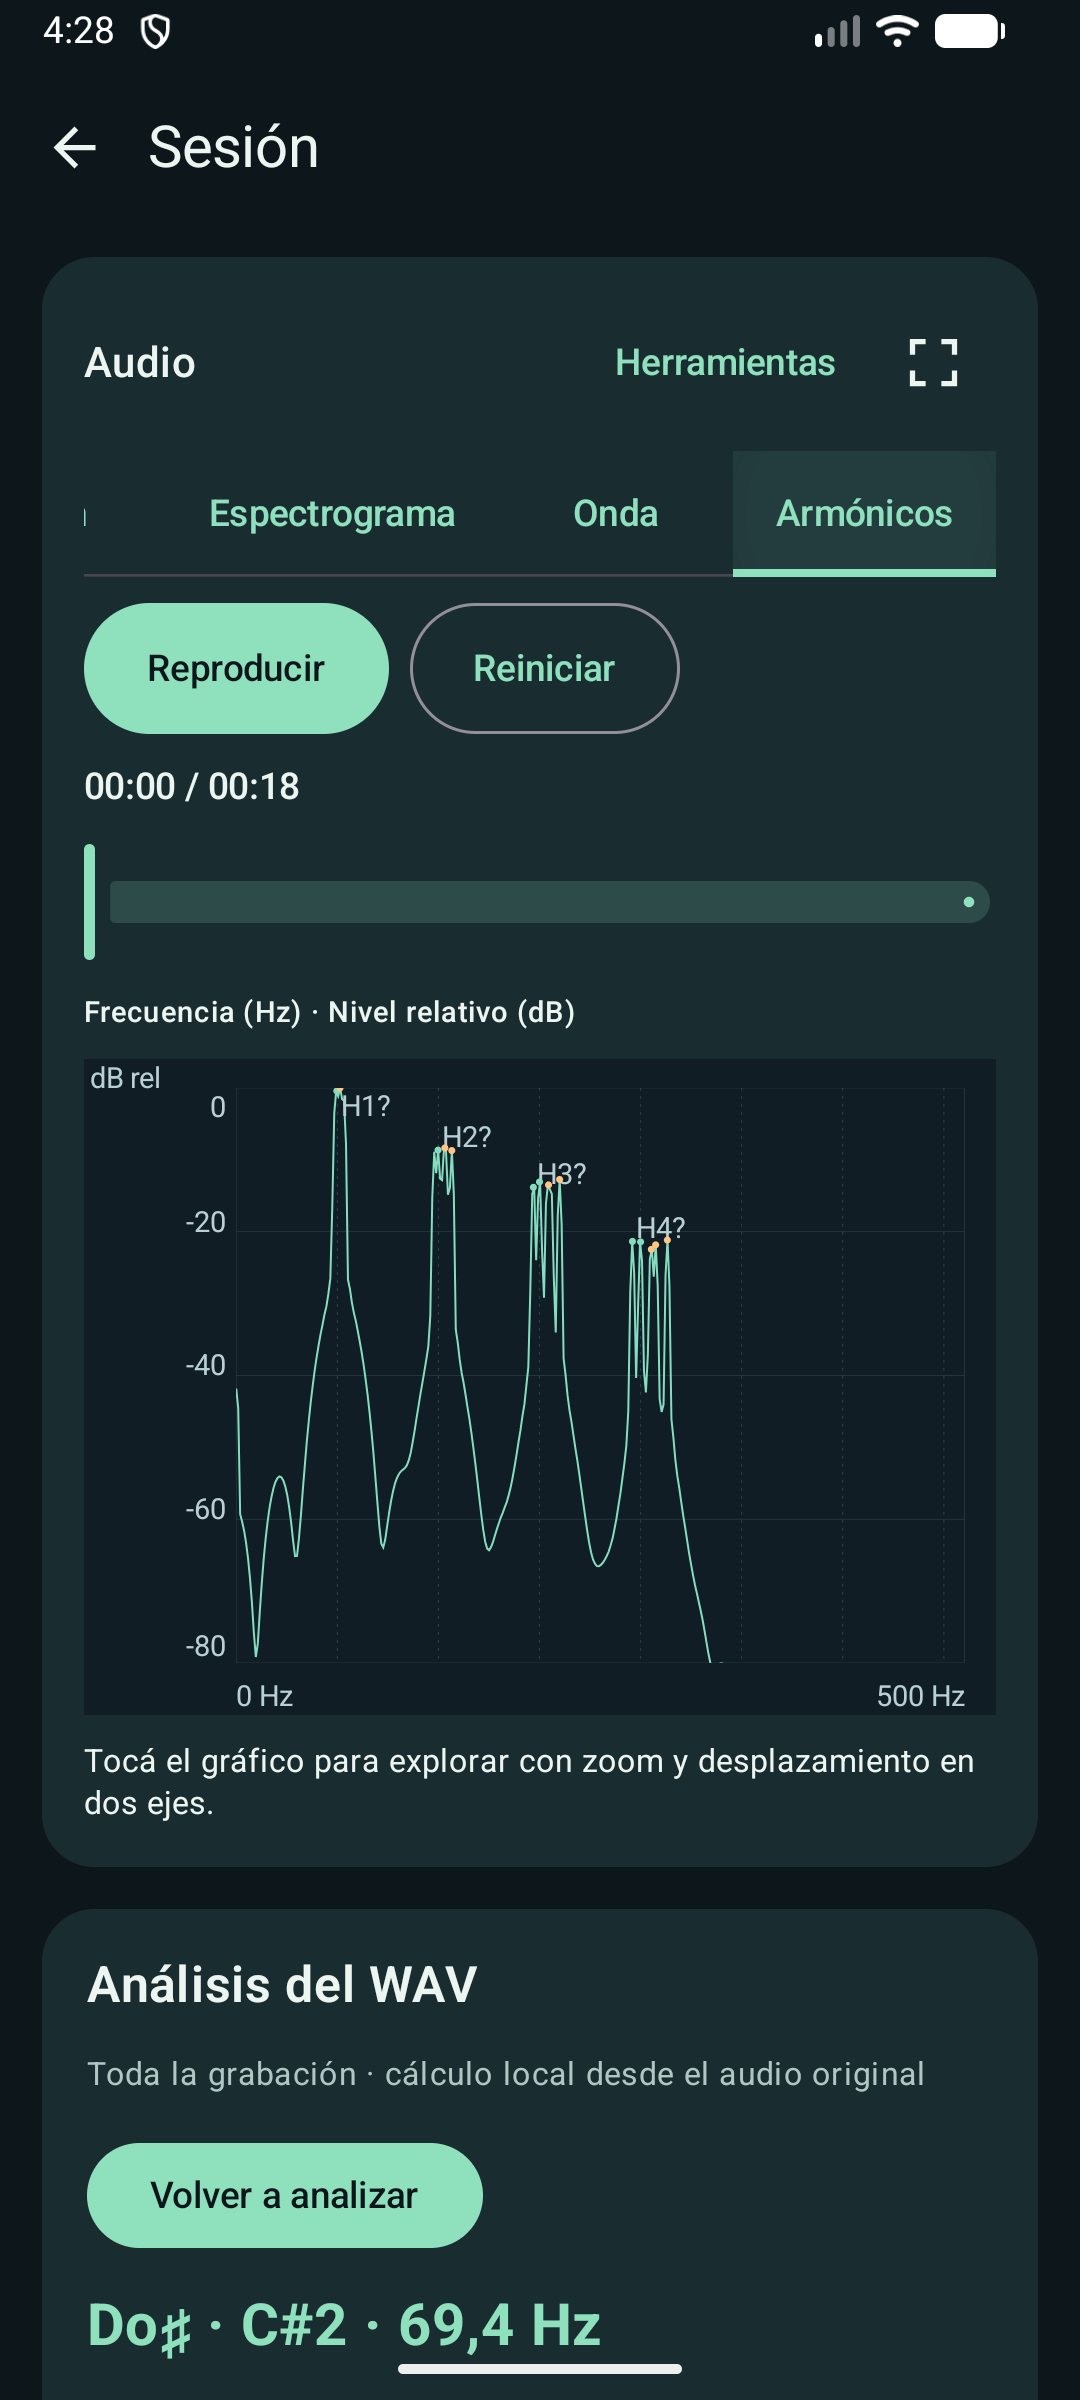
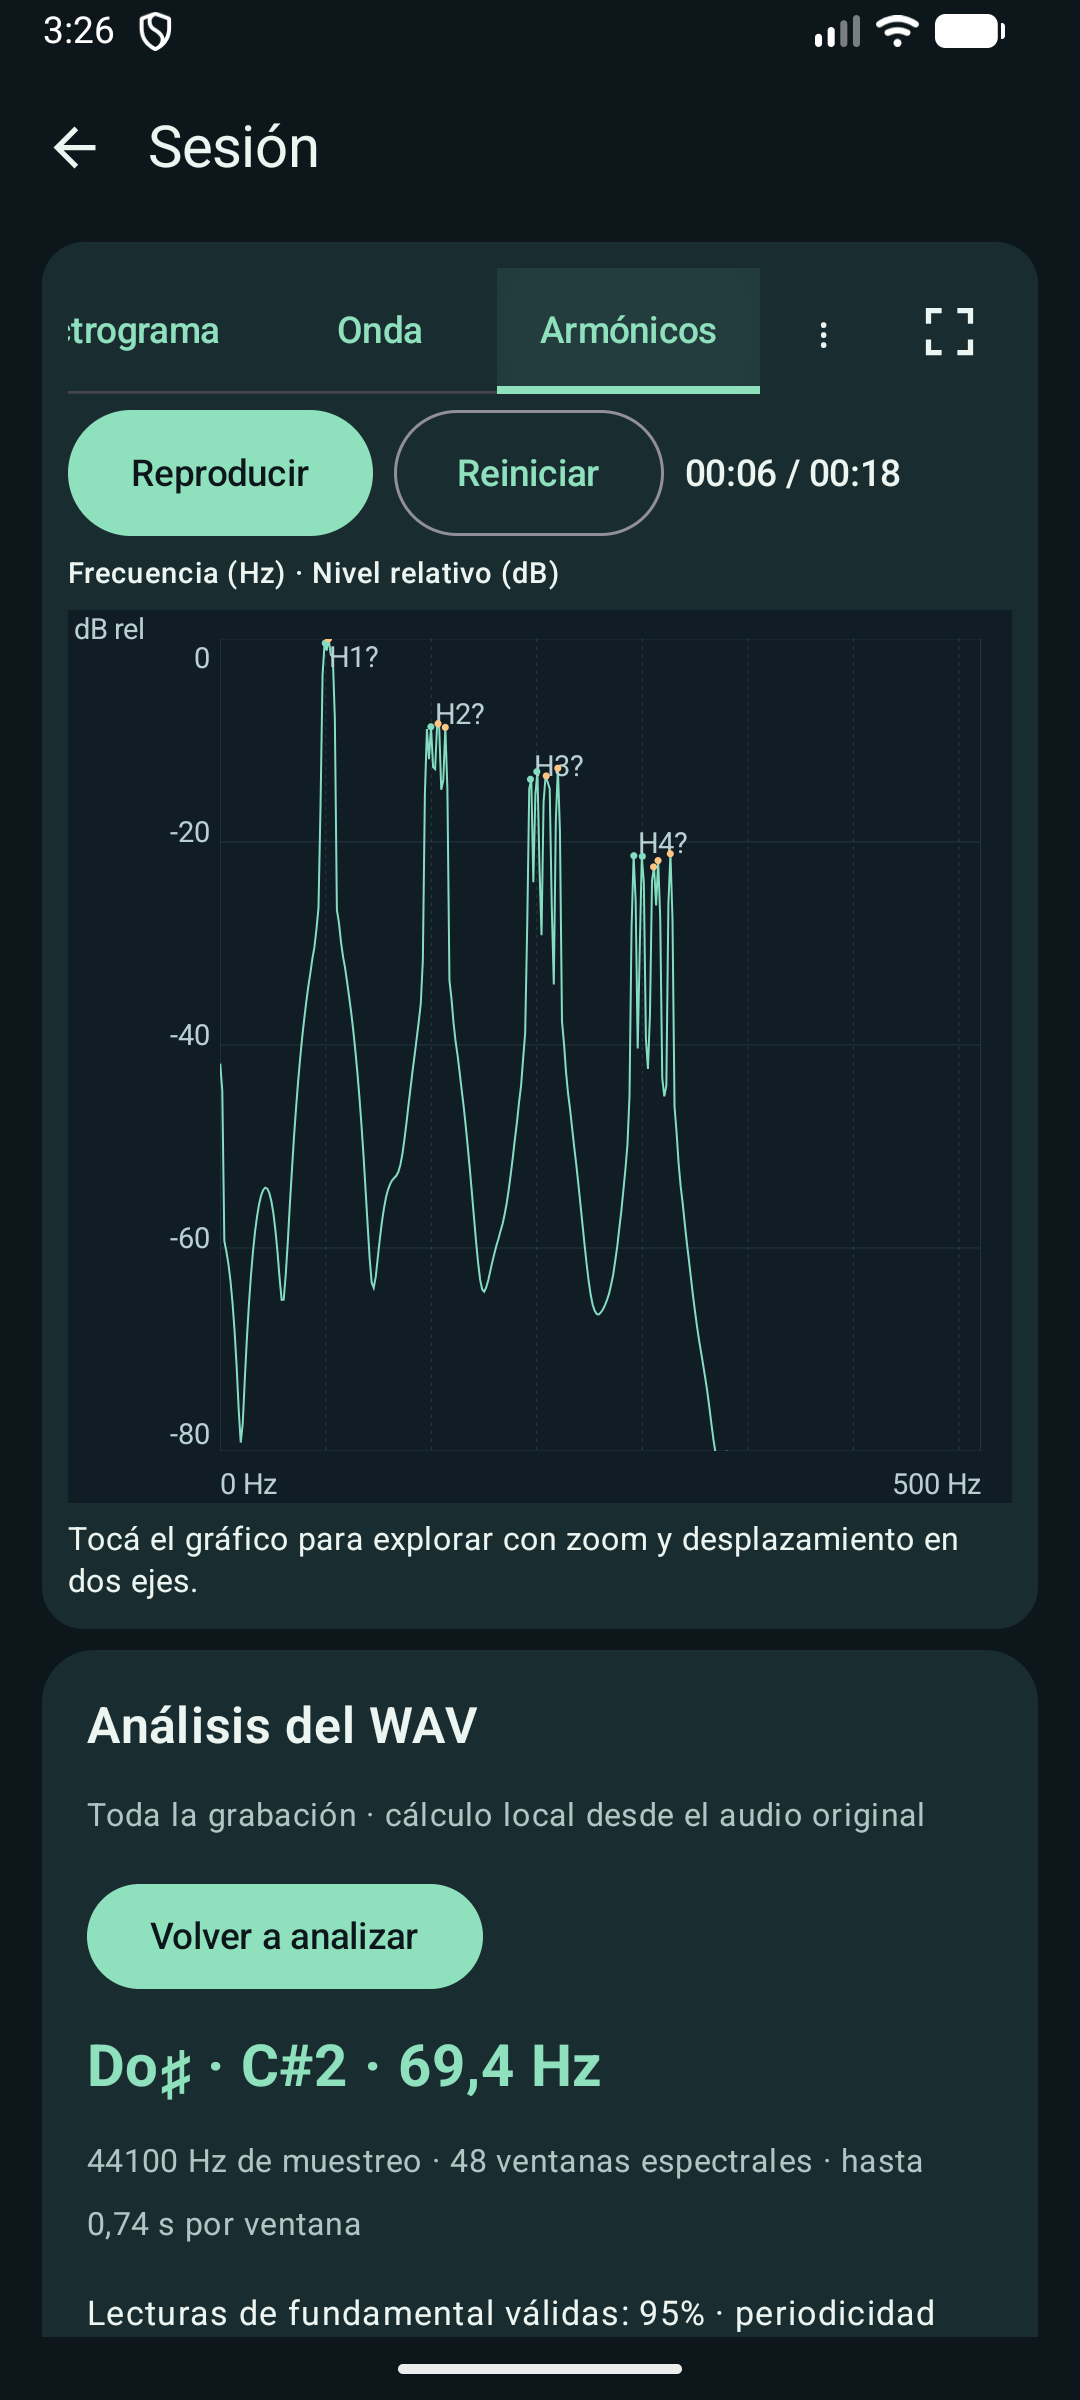
Refresh authentic bilingual emulator showcase with synchronized selection

diff --git a/app/src/androidTest/java/ar/didgetaller/ui/SessionEvidenceUiTest.kt b/app/src/androidTest/java/ar/didgetaller/ui/SessionEvidenceUiTest.kt
@@ -50,7 +50,7 @@ class SessionEvidenceUiTest {
                 result+=SessionAnalysis.Point(at*1000/44100,r.hz.takeIf {it>0},r.confidence)
             }};result
         }
-        item=RecordingStore(app).save(bytes,points,1000000)
+        item=RecordingStore(app).save(bytes,points,if(args.getString("evidenceLabel")?.startsWith("current-")==true)1793923200000L else 1000000)
         compose.runOnUiThread {vm=TallerViewModel(app);owners.put("evidence",vm)}
         compose.setContent {TallerApp(vm,{}, {}, {_,_,_->})}
         compose.onNodeWithText(uiText(R.string.ui_library),useUnmergedTree=true).performClick()
@@ -67,12 +67,19 @@ class SessionEvidenceUiTest {
         bitmap.recycle()
     }
     @Test fun readmeShowcaseFromSyntheticWav(){
+        compose.runOnUiThread {vm.renameSession(item,if(compose.activity.resources.configuration.locales[0].language=="es")"Estudio sintético del dron" else "Synthetic drone study")}
         InstrumentationRegistry.getInstrumentation().sendKeyDownUpSync(android.view.KeyEvent.KEYCODE_BACK)
         compose.onNodeWithTag("library-list").assertIsDisplayed()
         screenshot("library")
         compose.onNodeWithTag("session-${item.id}").performScrollTo().performClick()
         compose.waitUntil(20000){vm.musicalTrace(item)!=null}
         compose.onNodeWithTag("time-chart").assertIsDisplayed()
+        val chart=compose.onNodeWithTag("time-chart")
+        val area=chart.fetchSemanticsNode().config[PlotDataArea]
+        chart.performTouchInput {click(androidx.compose.ui.geometry.Offset(area.left+area.width*.36f,area.center.y))}
+        compose.waitUntil(5000){vm.playingId==item.id}
+        Thread.sleep(250);compose.mainClock.advanceTimeBy(500)
+        assertEquals(item.durationMs*.36,chart.fetchSemanticsNode().config[PlotPlaybackMs].toDouble(),100.0)
         screenshot("session")
         compose.onNodeWithTag("plot-tab-spectrogram").performScrollTo().performClick()
         compose.waitUntil(20000){vm.workspace.state.bitmap!=null && !vm.workspace.state.loading}

diff --git a/docs/screenshots/showcase/README.md b/docs/screenshots/showcase/README.md
@@ -1,10 +1,10 @@
-# README showcase captures
+# Current README showcase - en
 
-These five PNGs are unaltered screenshots of Didge Taller running on the
-`emulator-5554` Android emulator with the `81e33cb` debug APK. The emulator was
-set to 1080 x 2400 pixels, density 420, font scale 1.0. Android reported the
-app locale as `en`; the English labels were checked in the rendered images.
-No Samsung data or private recordings were used.
+Captured on 2026-11-06 from the real Android app on emulator-5554 (ranchu), based on production revision 0ed87d6. Production executable code and Android resources are unchanged; this task translates two comments and technical test messages and updates screenshot-only fixture preparation.
+
[1 lines of base64/hex data omitted]
+
+Resolution: 1080 x 2400 px; density 420; font scale 1.0; app locale `en`. All five original PNGs were visually inspected independently. No retouching, overlays, generated UI, private recordings or Samsung access. Earlier originals remain available in Git history at 0ed87d6 and the dated evidence directories.
 
 `library.png`, `session-analysis.png`, `spectrogram.png`, and
 `harmonic-analysis.png` use an
@@ -17,6 +17,8 @@ synthetic WAV's SHA-256 is
 the real app calculate the drone trace, STFT spectrogram, and harmonic analysis.
 The WAV remains in ignored local evidence and is not committed.
 
+The selected session timestamp is 6.48 s; the measured supported component is 71.2 Hz. The test taps the actual plot, waits for the paused real player and checks cursor synchronization before capture. Demo names are localized fixture data, not translated user sessions. Spectrogram and harmonic peaks are calculated by the production pipeline from the same WAV.
+
 `live-measurement.png` comes from
 `RecoveryUiTest.controlledPcmReachesLiveMeterAndProfilesResetWithoutGraphFiltering`.
 Deterministic 70 Hz PCM passes through `PitchStream` and the production live
@@ -24,6 +26,15 @@ reading callback. The test deliberately uses no physical microphone or WAV
 writer. The image demonstrates the live display, not a physical measurement or
 a completed recording.
 
-The SVG mark is a direct transcription of the current Android adaptive icon's
-foreground paths and launcher background color. It is artwork, not a screenshot.
-Historical screenshots remain in their existing directories for dated evidence.
+
+## Original PNG integrity
+
+| File | Dimensions | SHA-256 |
+| --- | --- | --- |
[5 lines of base64/hex data omitted]
+
+The SVG mark transcribes the current adaptive icon artwork; it is not a screenshot.

diff --git a/docs/screenshots/showcase-es/README.md b/docs/screenshots/showcase-es/README.md
@@ -1,11 +1,10 @@
-# Spanish README showcase captures
+# Current README showcase - es-AR
 
-These five PNGs are unaltered screenshots of Didge Taller running on the
-`emulator-5554` Android emulator with the `81e33cb` debug APK. The emulator
-was set to 1080 x 2400 pixels, density 420, font scale 1.0. Android reported
-the app locale as `es-AR`; the Spanish labels were checked in all five
-rendered images. The previous emulator app locale (`en`) was restored after
-capture. No Samsung data or private recordings were used.
+Captured on 2026-11-06 from the real Android app on emulator-5554 (ranchu), based on production revision 0ed87d6. Production executable code and Android resources are unchanged; this task translates two comments and technical test messages and updates screenshot-only fixture preparation.
+
[1 lines of base64/hex data omitted]
+
+Resolution: 1080 x 2400 px; density 420; font scale 1.0; app locale `es-AR`. All five original PNGs were visually inspected independently. No retouching, overlays, generated UI, private recordings or Samsung access. Earlier originals remain available in Git history at 0ed87d6 and the dated evidence directories.
 
 `library.png`, `session-analysis.png`, `spectrogram.png`, and
 `harmonic-analysis.png` use the same isolated 18-second mono PCM16 WAV as the
@@ -17,6 +16,8 @@ capture. No Samsung data or private recordings were used.
 the real app calculate the drone trace, STFT spectrogram, and harmonic
 analysis. The WAV remains in ignored local evidence and is not committed.
 
+The selected session timestamp is 6.48 s; the measured supported component is 71.2 Hz. The test taps the actual plot, waits for the paused real player and checks cursor synchronization before capture. Demo names are localized fixture data, not translated user sessions. Spectrogram and harmonic peaks are calculated by the production pipeline from the same WAV.
+
 `live-measurement.png` comes from
 `RecoveryUiTest.controlledPcmReachesLiveMeterAndProfilesResetWithoutGraphFiltering`.
 Deterministic 70 Hz PCM passes through `PitchStream` and the production live
@@ -27,3 +28,13 @@ recording.
 The README reuses the existing SVG mark from the English showcase; it adds no
 new application artwork. Historical screenshots remain in their existing
 directories for dated evidence.
+
+## Original PNG integrity
+
+| File | Dimensions | SHA-256 |
+| --- | --- | --- |
[5 lines of base64/hex data omitted]
